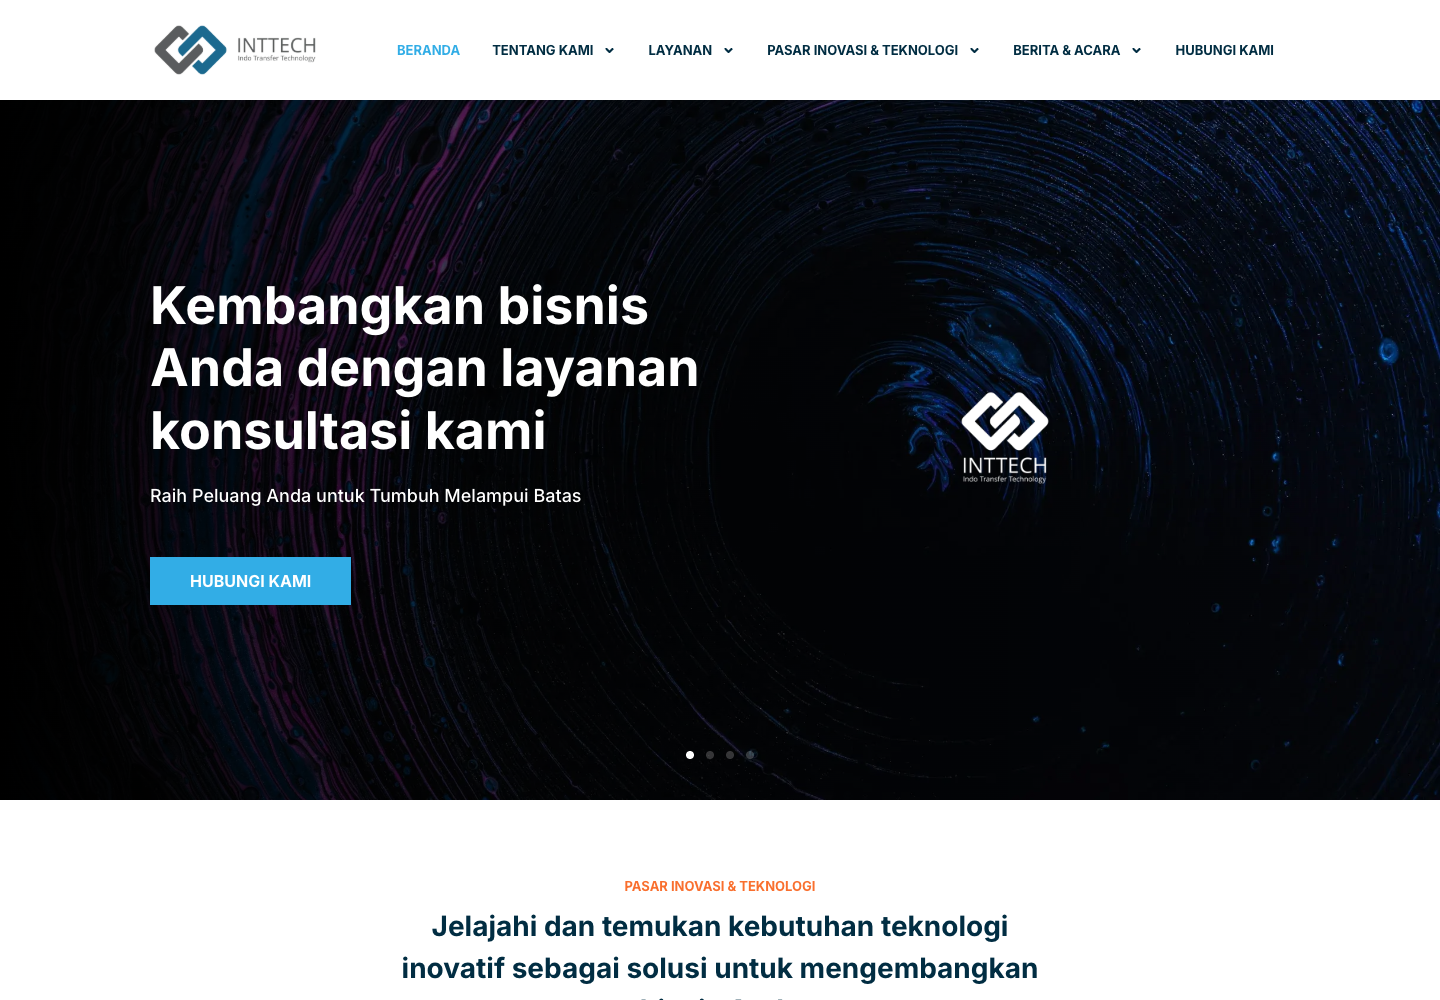
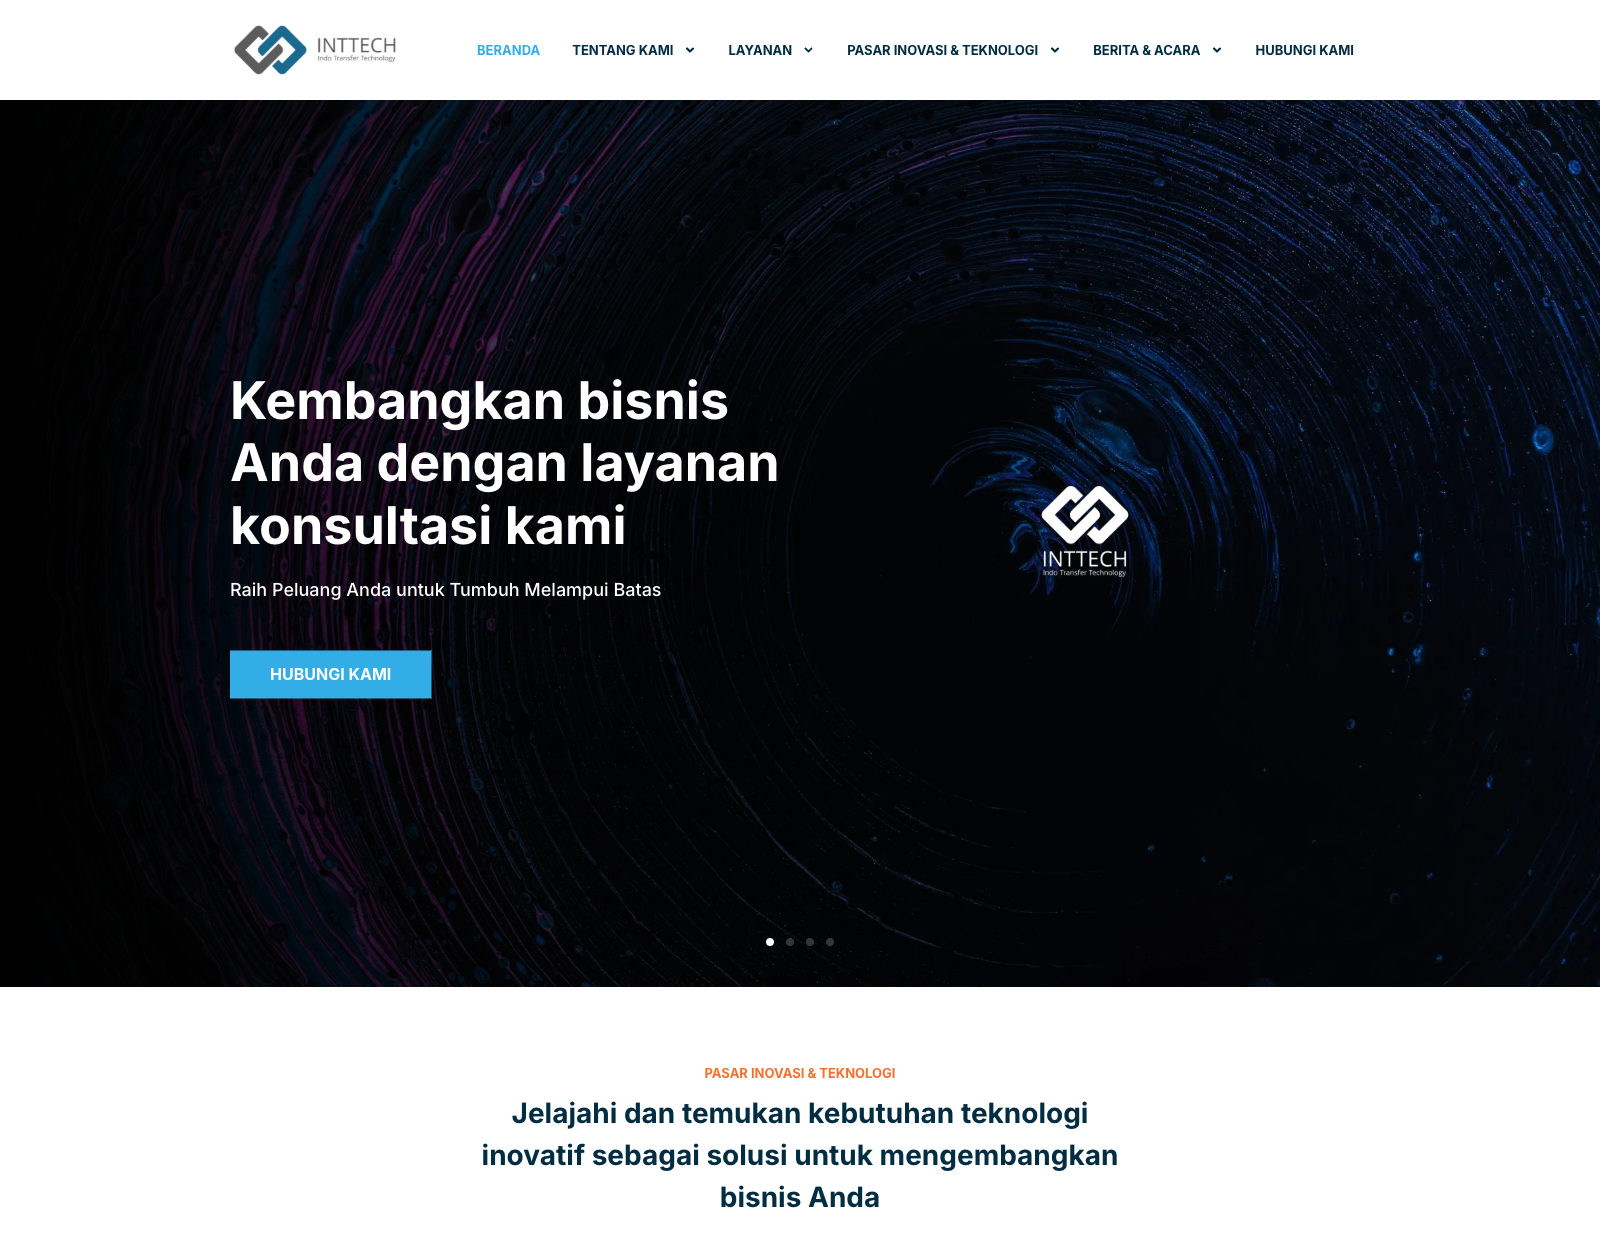
Reorder portfolio sections and update assets

diff --git a/components/sections/portfolio/PortfolioSlide.tsx b/components/sections/portfolio/PortfolioSlide.tsx
@@ -72,12 +72,12 @@ export function PortfolioSlide({ project, isActive }: PortfolioSlideProps) {
                     variants={activeContentVariants}
                     initial={prefersReducedMotion ? { opacity: 0 } : "hidden"}
                     animate={isActive ? (prefersReducedMotion ? { opacity: 1 } : "visible") : "hidden"}
-                    className="flex-1 flex flex-col lg:flex-row gap-6 lg:gap-8"
+                    className="flex-1 flex flex-col lg:flex-row lg:items-start gap-6 lg:gap-8"
                 >
                     {/* Left: Main Screenshot (large) */}
                     <motion.div
                         variants={activeItemVariants}
-                        className="w-full lg:flex-1 relative h-[50vh] lg:h-auto lg:aspect-auto rounded-2xl overflow-hidden shadow-2xl bg-neutral-100"
+                        className="w-full lg:flex-1 relative aspect-[1600/1234] rounded-2xl overflow-hidden shadow-2xl bg-neutral-100"
                     >
                         <Image
                             src={project.standard}
@@ -93,7 +93,7 @@ export function PortfolioSlide({ project, isActive }: PortfolioSlideProps) {
                     {/* Right: Full Page Preview (vertical scroll view) */}
                     <motion.div
                         variants={activeItemVariants}
-                        className="hidden lg:block w-80 relative rounded-xl overflow-hidden shadow-xl"
+                        className="hidden lg:block w-80 aspect-[320/666] relative rounded-xl overflow-hidden shadow-xl"
                     >
                         <Image
                             src={project.fullPage}

diff --git a/app/page.tsx b/app/page.tsx
@@ -17,16 +17,16 @@ export default function Home() {
           <Hero />
         </section>
         <section className="min-h-screen snap-start">
-          <About />
-        </section>
-        <section className="min-h-screen snap-start flex flex-col justify-center">
-          <Services />
-        </section>
-        <section className="min-h-screen snap-start">
           <PortfolioGrid projects={projects} />
         </section>
         <section className="min-h-screen snap-start flex flex-col justify-center">
           <PortfolioSlider projects={projects} />
+        </section>
+        <section className="min-h-screen snap-start">
+          <About />
+        </section>
+        <section className="min-h-screen snap-start flex flex-col justify-center">
+          <Services />
         </section>
         <section className="min-h-screen snap-start">
           <Contact />
